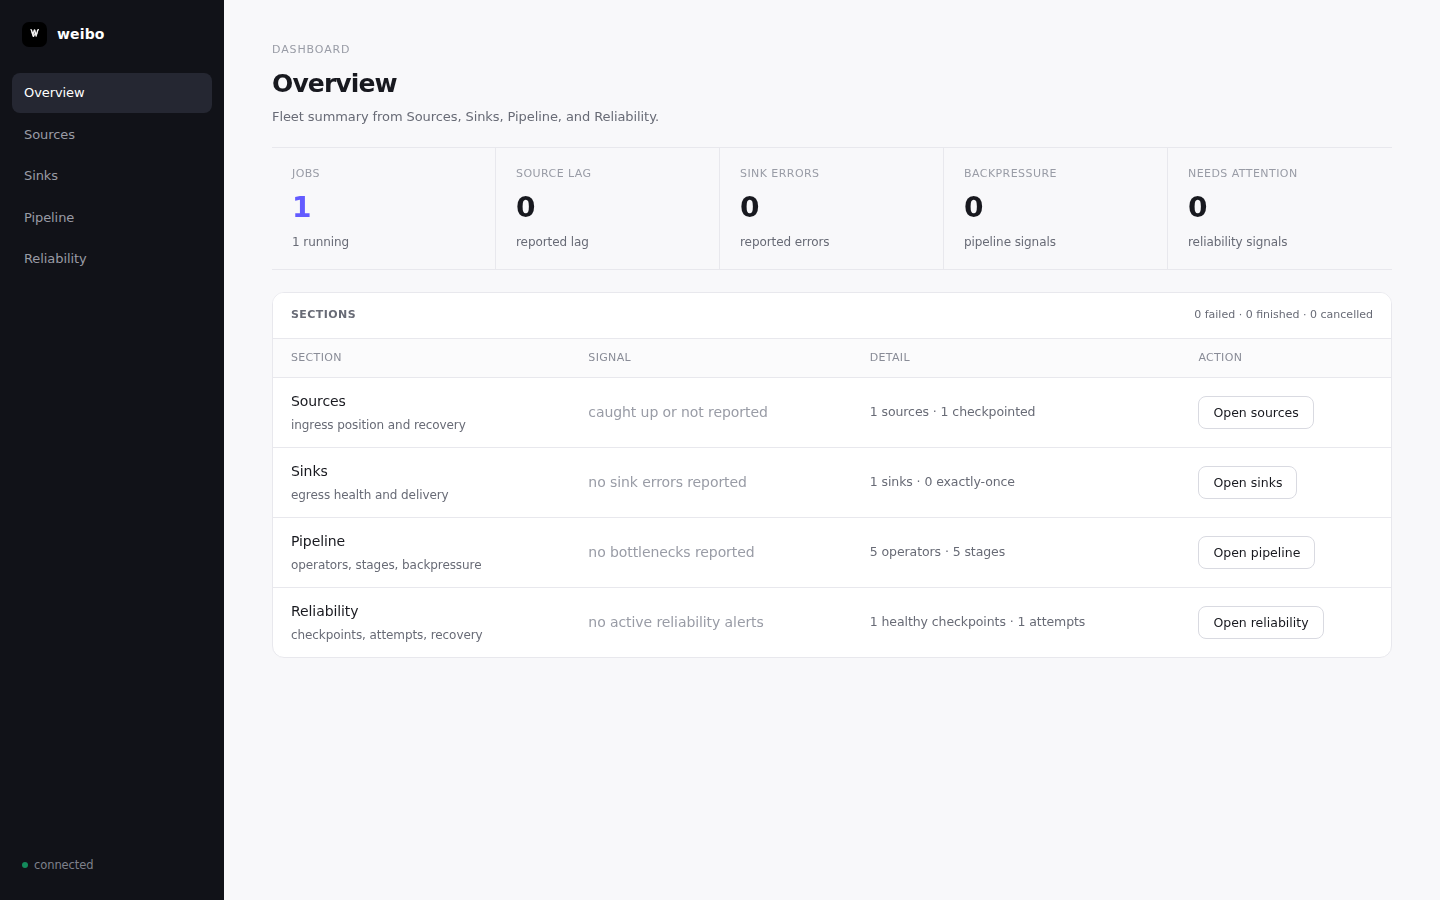
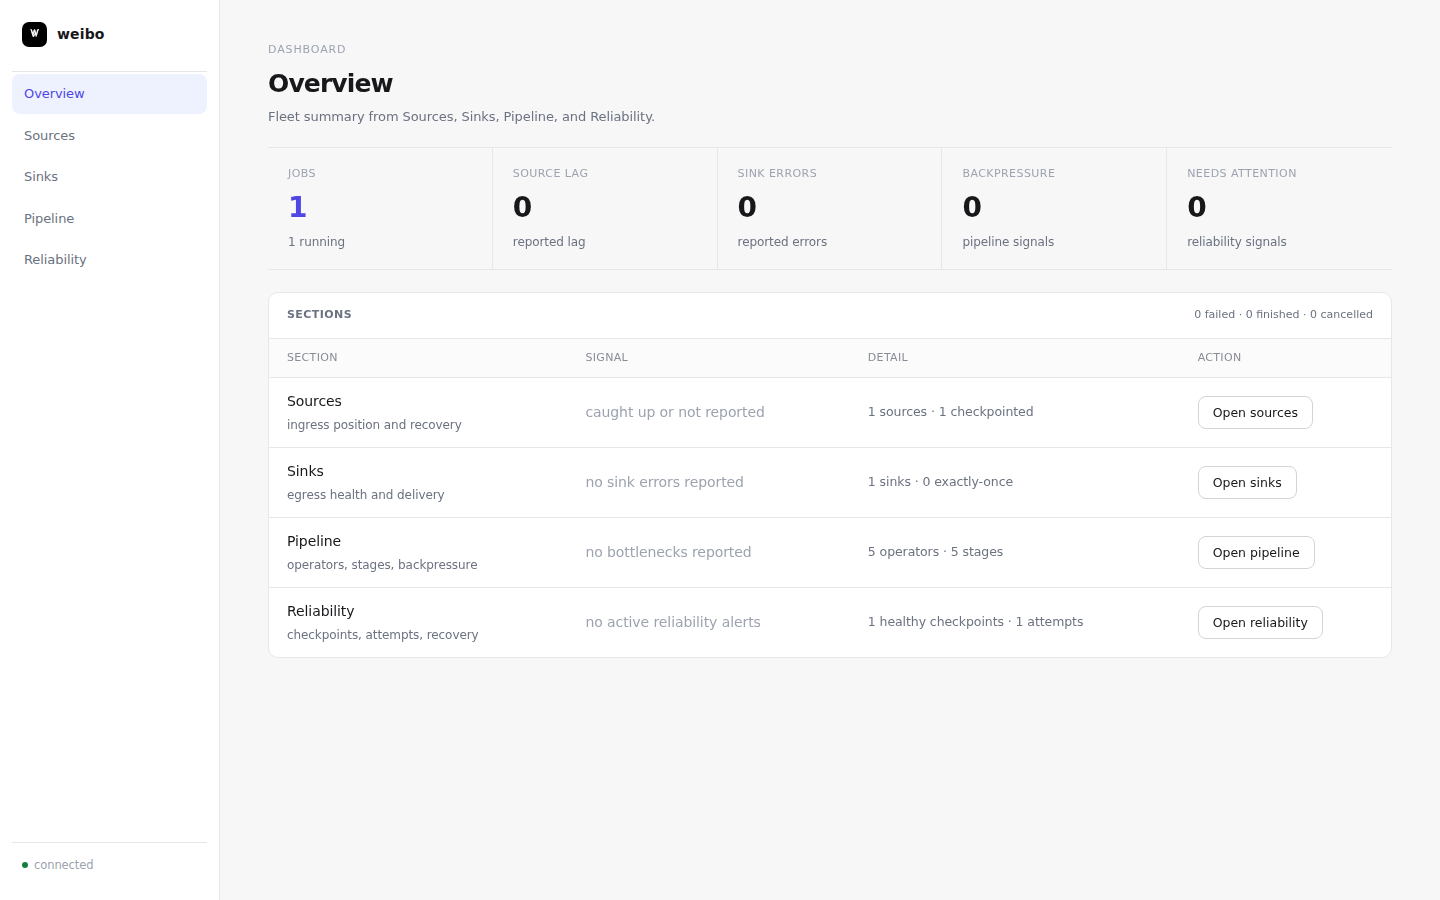
Update dashboard screenshots to the current minimal light theme
The earlier screenshots were taken before PR #14 (dashboard redesign to a
pure light theme) landed on main. Rebase onto latest main and retake all
five screenshots against a fresh stream-demo job so they match what the
dashboard actually looks like now; also fix a leftover "dark navigation"
description in dashboard.md.

Claude-Session: https://claude.ai/code/session_01HwAkFciFwPPJvrBHQFrQuE

diff --git a/docs/dashboard.md b/docs/dashboard.md
@@ -69,7 +69,7 @@ The dashboard is a plain-JS SPA. The current visible router is intentionally red
 ## Implemented so far
 
 ### Layout & navigation
-- **Sidebar** — compact dark navigation with section-by-section entries for Overview, Sources, Sinks, Pipeline, and Reliability. Connection status appears in the footer.
+- **Sidebar** — minimal light navigation with section-by-section entries for Overview, Sources, Sinks, Pipeline, and Reliability. Connection status appears in the footer.
 - **Token auth** — on a 401 the UI drops to a token prompt, validates it via `POST /auth`, and stores it in `localStorage`. Read-only hashed tokens can inspect the dashboard but cannot submit, delete, cancel, restart, or savepoint jobs.
 
 ### Target sections
